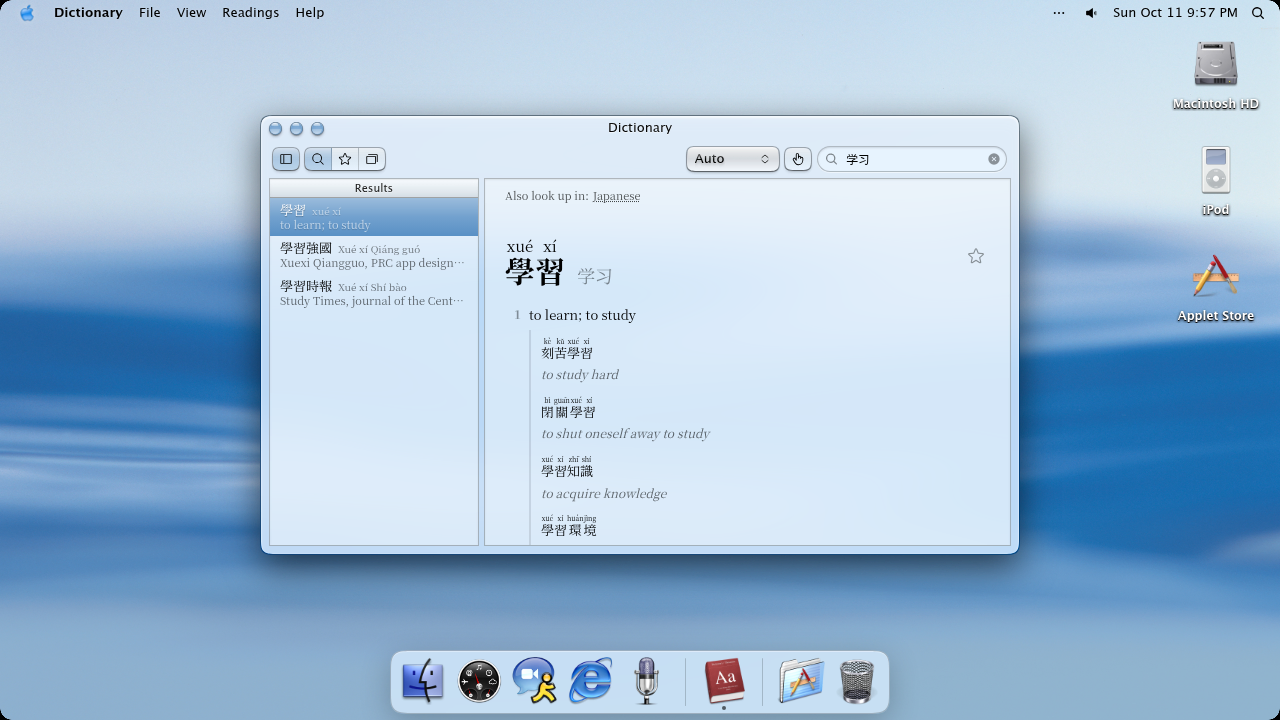
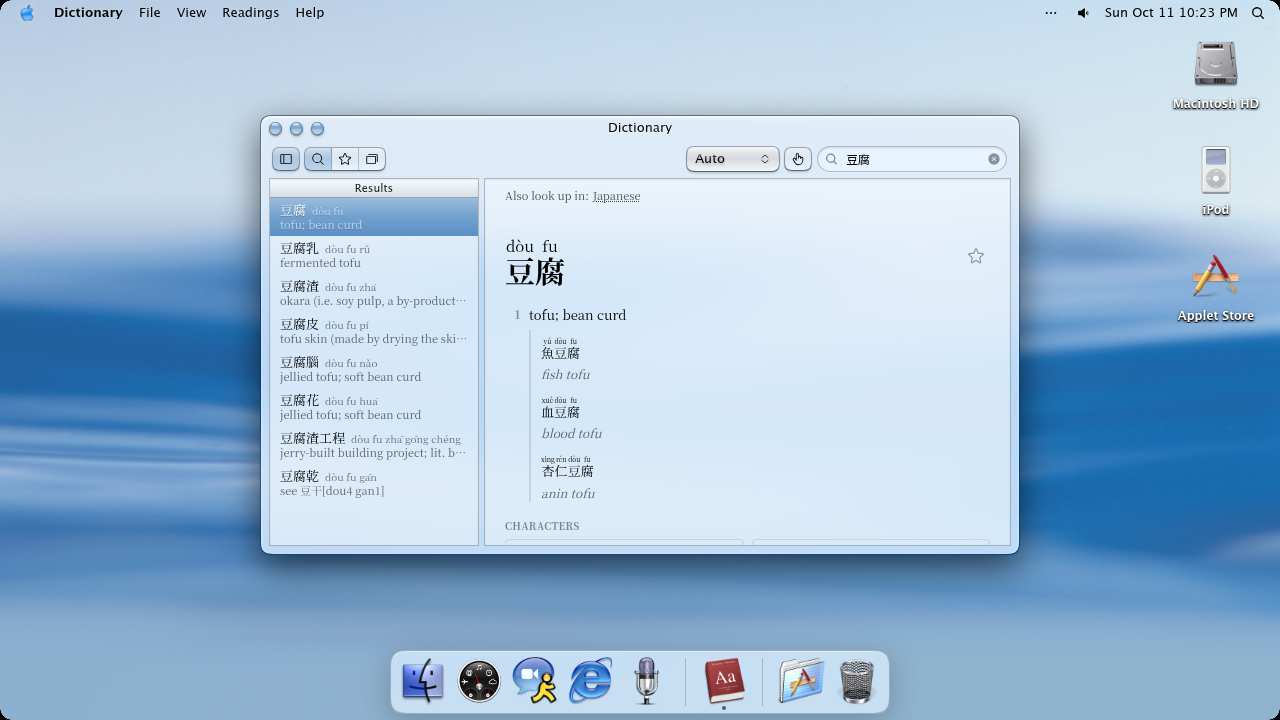
docs: use 豆腐 for the Dictionary example
Replace the 学习 lookup in the app page and the October changelog screenshot with 豆腐 and its stroke-order cards.

diff --git a/public/docs/dictionary.html b/public/docs/dictionary.html
@@ -492,7 +492,7 @@
 <h2>Features</h2>
 <ul><li><strong>Lookup</strong>: English, Chinese, Japanese, and Korean, plus compounds and similar words under the entry.</li></ul><ul><li><strong>Readings</strong>: pinyin or zhuyin for Chinese, furigana and romaji for Japanese, and romanization for Korean. The Readings menu switches them.</li><li><strong>Chinese character cards</strong>: one card per character, with a looping Hanzi Writer stroke-order animation (tap to replay), the reading from the Readings setting, a short CC-CEDICT meaning, and the other script when it differs. A missing character stays a static glyph.</li><li><strong>Japanese kanji cards</strong>: meanings, on and kun readings, and stroke count from KANJIDIC2.</li><li><strong>Handwriting</strong>: draw a Chinese character or kanji and pick a candidate. On iOS Safari and the iOS app WebView, the pad turns off text selection and the magnifier loupe while you draw. Definition text in the entry stays selectable.</li><li><strong>Speech</strong>: a speaker on the headword, each example, and both sides of a flashcard. A recorded pronunciation plays first. Otherwise the browser voice follows Control Panels when that voice matches the entry language. Japanese is read from kana. Chinese follows the selected script. Cantonese voices are not used for Mandarin.</li><li><strong>Favorites and flashcards</strong>: star a word to save it. Cloud Sync copies favorites across devices. Flashcards use SM-2 (Again, Hard, Good, Easy). Space flips a card. Keys 1–4 grade it.</li><li><strong>Ask AI</strong>: usage notes stream in while you read. A word the dictionaries miss streams a fallback definition the same way. Synonym chips and example lines appear once each line is finished. A cached note returns as one JSON body.</li></ul>
 <h2>User Guide</h2>
-<p>Open Dictionary from the dock or launcher. The welcome state offers sample words. The Chinese sample follows the Readings script (学习 or 學習).</p>
+<p>Open Dictionary from the dock or launcher. The welcome state offers sample words. The Chinese sample follows the Readings script. Looking up 豆腐 shows a stroke-order card for each character.</p>
 <p>Search from the toolbar. The speaker and star sit on the headword line. Open the handwriting pad to draw, then tap a candidate to add it to the query. Star words you want to study, then switch to flashcards.</p>
 <p>Ask AI on an entry for usage notes, or on an empty result for a generated definition. Starting another search cancels the stream in progress.</p>
 <h2>Data sources and licenses</h2>

diff --git a/docs/2.30-dictionary.md b/docs/2.30-dictionary.md
@@ -23,7 +23,7 @@ The Dashboard dictionary widget uses this same English lookup. The full app adds
 
 ## User Guide
 
-Open Dictionary from the dock or launcher. The welcome state offers sample words. The Chinese sample follows the Readings script (学习 or 學習).
+Open Dictionary from the dock or launcher. The welcome state offers sample words. The Chinese sample follows the Readings script. Looking up 豆腐 shows a stroke-order card for each character.
 
 Search from the toolbar. The speaker and star sit on the headword line. Open the handwriting pad to draw, then tap a candidate to add it to the query. Star words you want to study, then switch to flashcards.
 
